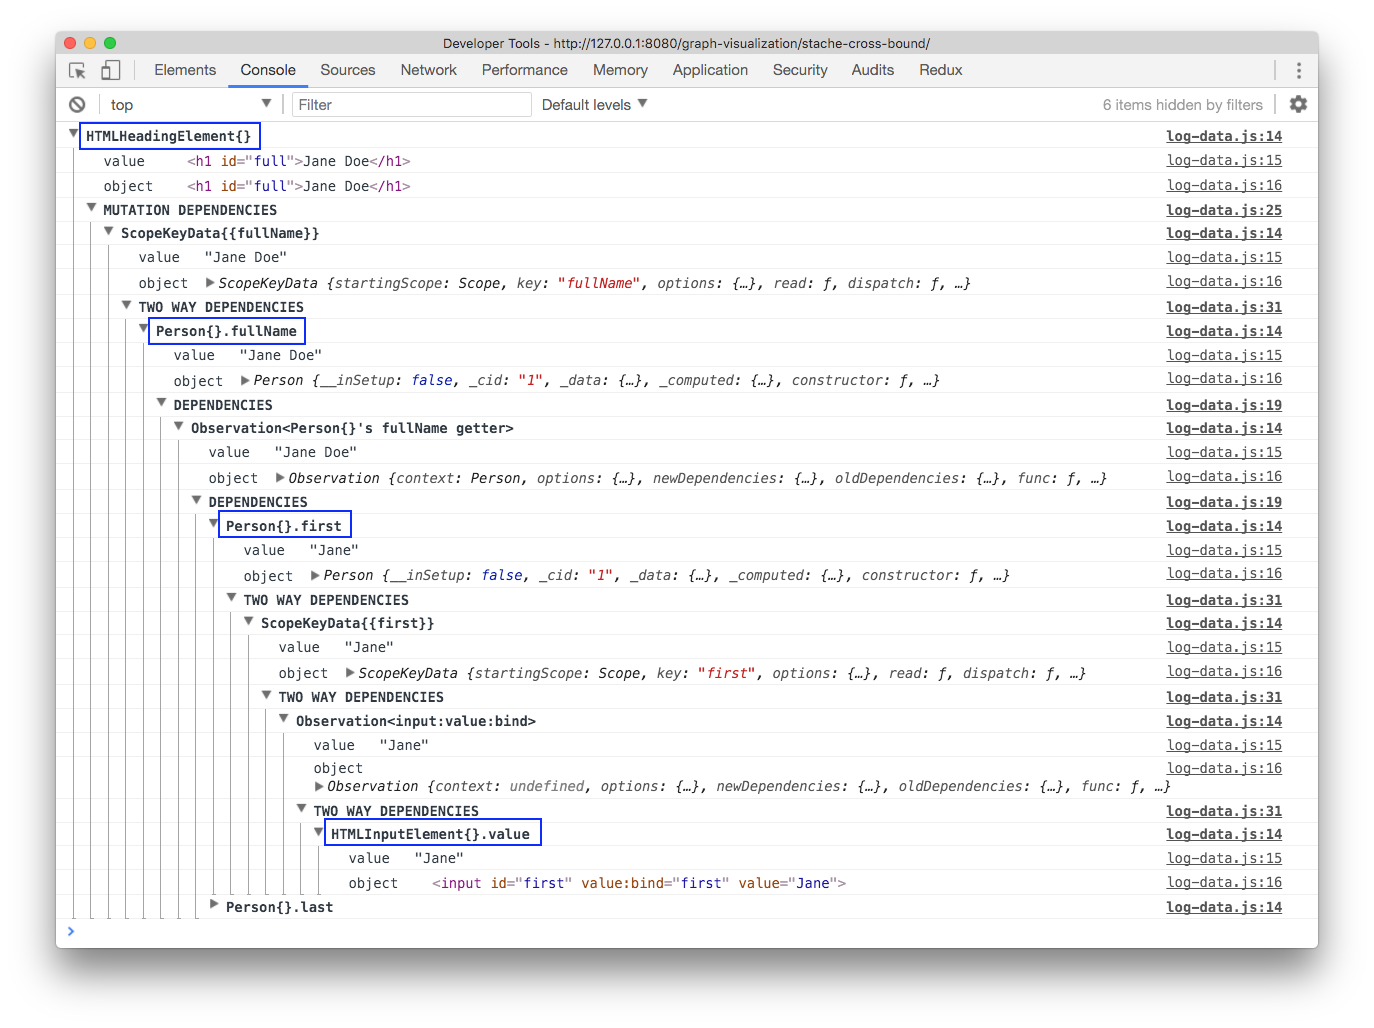
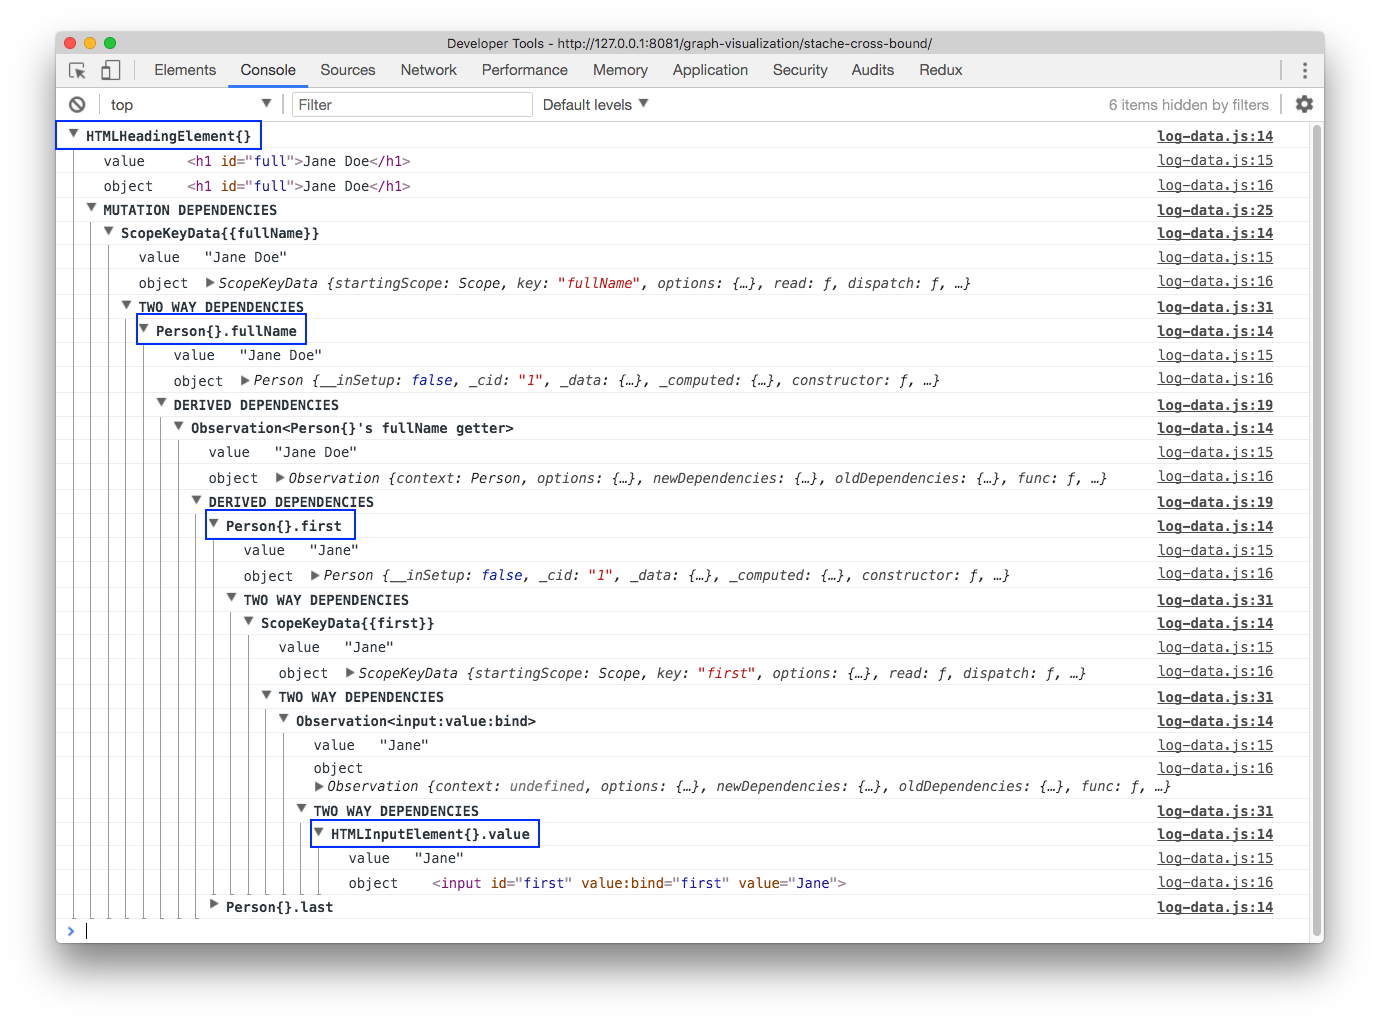
Rename "dependencies" to "derived dependencies"
In both the `getDebugData` and `logData` outputs

Closes #23

Changed region(s): [[0.0306, 0.0303, 0.9782, 0.9091]]

diff --git a/src/get-data/get-data-test.js b/src/get-data/get-data-test.js
@@ -24,18 +24,18 @@ QUnit.test("outcoming arrows - whatIChange data", function(assert) {
 		node: one,
 		twoWay: [],
 		mutations: [],
-		dependencies: [
+		derive: [
 			{
 				node: two,
 				twoWay: [],
 				mutations: [],
-				dependencies: []
+				derive: []
 			},
 			{
 				node: three,
 				twoWay: [],
 				mutations: [],
-				dependencies: []
+				derive: []
 			}
 		]
 	});
@@ -80,18 +80,18 @@ QUnit.test("works with acyclic graphs (any direction)", function(assert) {
 		node: one,
 		twoWay: [],
 		mutations: [],
-		dependencies: [
+		derive: [
 			{
 				node: two,
 				twoWay: [],
 				mutations: [],
-				dependencies: []
+				derive: []
 			},
 			{
 				node: three,
 				twoWay: [],
 				mutations: [],
-				dependencies: []
+				derive: []
 			}
 		]
 	});
@@ -117,17 +117,17 @@ QUnit.test("works with graphs including cycles", function(assert) {
 		node: one,
 		twoWay: [],
 		mutations: [],
-		dependencies: [
+		derive: [
 			{
 				node: two,
 				mutations: [],
-				dependencies: [],
+				derive: [],
 				twoWay: [
 					{
 						node: three,
 						twoWay: [],
 						mutations: [],
-						dependencies: []
+						derive: []
 					}
 				]
 			}

diff --git a/src/log-data/log-data-test.js b/src/log-data/log-data-test.js
@@ -8,18 +8,18 @@ QUnit.test("it works", function(assert) {
 		node: { obj: {}, name: "PersonVM", key: "fullName", value: "John Doe" },
 		twoWay: [],
 		mutations: [],
-		dependencies: [
+		derive: [
 			{
 				node: { obj: {}, name: "PersonVM", key: "first", value: "John" },
 				twoWay: [],
 				mutations: [],
-				dependencies: []
+				derive: []
 			},
 			{
 				node: { obj: {}, name: "PersonVM", key: "last", value: "John" },
 				twoWay: [],
 				mutations: [],
-				dependencies: []
+				derive: []
 			}
 		]
 	};
@@ -33,7 +33,7 @@ QUnit.test("it works", function(assert) {
 	log(data);
 
 	// groups dependencies by "kind"
-	assert.ok(groups.has("DEPENDENCIES"));
+	assert.ok(groups.has("DERIVED DEPENDENCIES"));
 	assert.ok(!groups.has("MUTATION DEPENDENCIES"), "no empty groups");
 	assert.ok(!groups.has("TWO WAY DEPENDENCIES"), "no empty groups");
 

diff --git a/src/get-data/get-data.js b/src/get-data/get-data.js
@@ -2,9 +2,9 @@ var labelCycles = require("../label-cycles/label-cycles");
 
 var isDisconnected = function isDisconnected(data) {
 	return (
-		!data.twoWay.length &&
-		!data.dependencies.length &&
-		!data.mutations.length
+		!data.derive.length &&
+		!data.mutations.length &&
+		!data.twoWay.length
 	);
 };
 
@@ -17,7 +17,7 @@ module.exports = function getDebugData(inputGraph, direction) {
 	);
 
 	var visit = function visit(node) {
-		var data = { node: node, dependencies: [], mutations: [], twoWay: [] };
+		var data = { node: node, derive: [], mutations: [], twoWay: [] };
 
 		visited.set(node, true);
 
@@ -31,7 +31,7 @@ module.exports = function getDebugData(inputGraph, direction) {
 						break;
 
 					case "derive":
-						data.dependencies.push(visit(adj));
+						data.derive.push(visit(adj));
 						break;
 
 					case "mutate":

diff --git a/graph-visualization/define-map/define-map.js b/graph-visualization/define-map/define-map.js
@@ -10,20 +10,14 @@ var Person = DefineMap.extend("Person", {
 		get: function() {
 			return this.first + " " + this.last;
 		}
-	},
-	ocupation: {
-		get: function() {
-			return this.fullName + " - " + this.job;
-		}
 	}
 });
 
 var me = new Person({ first: "John", last: "Doe" });
-me.on("first", function() {});
 me.on("fullName", function() {});
 
-// debug.logWhatChangesMe(me, "ocupation");
+console.log( debug.getDebugData(debug.getGraph(me, "fullName"), "whatChangesMe") );
 draw(
 	document.querySelector("#container"),
-	debug.getGraph(me, "first")
+	debug.getGraph(me, "ocupation")
 );

diff --git a/src/log-data/log-data.js b/src/log-data/log-data.js
@@ -12,9 +12,9 @@ module.exports = function log(data) {
 	console.log("value  ", quoteString(node.value));
 	console.log("object ", node.obj);
 
-	if (data.dependencies.length) {
-		console.group("DEPENDENCIES");
-		canReflect.eachIndex(data.dependencies, log);
+	if (data.derive.length) {
+		console.group("DERIVED DEPENDENCIES");
+		canReflect.eachIndex(data.derive, log);
 		console.groupEnd();
 	}
 

diff --git a/graph-visualization/stache-cross-bound/stache-cross-bound.js b/graph-visualization/stache-cross-bound/stache-cross-bound.js
@@ -24,6 +24,7 @@ var view = stache(`
 var scope = new Person({ first: "Jane", last: "Doe" });
 
 document.querySelector("#slot").appendChild(view(scope));
+debug.logWhatChangesMe(document.querySelector("#full"));
 draw(
 	document.querySelector("#container"),
 	debug.getGraph(document.querySelector("#full"))
